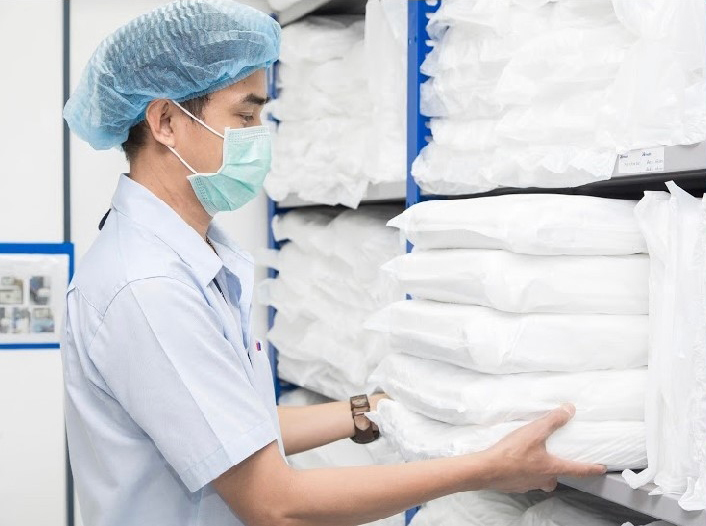
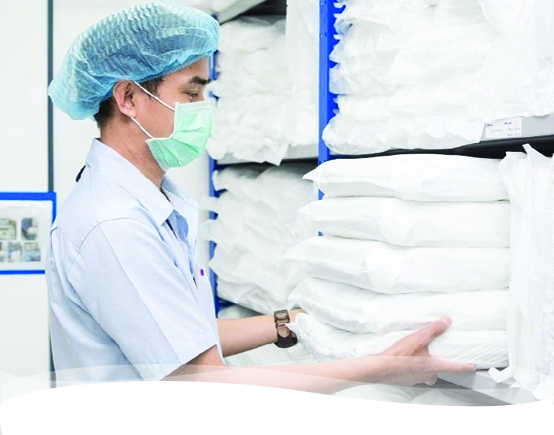
login

diff --git a/css/style_login.css b/css/style_login.css
@@ -17,7 +17,8 @@ body {
     justify-content: center;
 }
 .head_login_img {
-    width:100%;
+    /* width:100%; */
+    max-width:100%;
     max-height:400px;
     height:auto;
 }

diff --git a/page/login.php b/page/login.php
@@ -152,12 +152,12 @@
 </head>
 
 <body>
-	<div class="row p-0 m-0 d-flex justify-content-center">
-		<div class="col-lg-7 col-md-9 col-sm-11 col-11 p-0">
-			<img src="../img/head_login.png" class="head_login_img" style="border-radius:30px 30px 0 0;">
+	<div class="h-100 p-0 m-0">
+		<div class="d-flex justify-content-center w-100 mt-5 mb-0 py-0 px-2">
+			<img src="../img/head_login.jpg" class="head_login_img" style="border-radius:30px 30px 0 0;">
 		</div>
-		<div class="col-lg-7 col-md-9 col-sm-11 col-11 p-0">
-			<div class="bg-white card-body" style="border-radius:0 0 30px 30px;">
+		<div class="d-flex justify-content-center w-100 pt-0 pb-2 px-2">
+			<div class="bg-white card-body" style="border-radius:0 0 30px 30px;max-width:509.42px;">
 			<div class="row text-center mb-3 p-0">
 				<div class="col-12 mb-4"><img src="../img/logo.png" class="logo_login_img"/></div>
 				<div class="col-12 mt-2"><img src="../img/nlinen.png" class="logo_login_img" style="max-height:15px;"/></div>
@@ -189,12 +189,11 @@
 			
 			<div class="text-center mt-2">
 				<div id="btn_login">
-					<button onclick="chklogin()" class="btn btn_custom">
-					<div class="row align-items-center px-4">
-						<div class="ml-3 mr-auto">LOGIN</div>	
-						<i class="fas fa-arrow-right mr-3"></i>
-					</div>
-					
+					<button onclick="chklogin()" class="btn btn-primary" style="border-radius:30px;width:200px;">
+						<div class="d-flex align-items-center">
+							<div class="mr-auto ml-4" style="font-size:27px;">LOGIN</div>
+							<i class="fas fa-arrow-right mr-4" style="font-size:20px;"></i>
+						</div>
 					</button>
 				</div>
 			</div>
